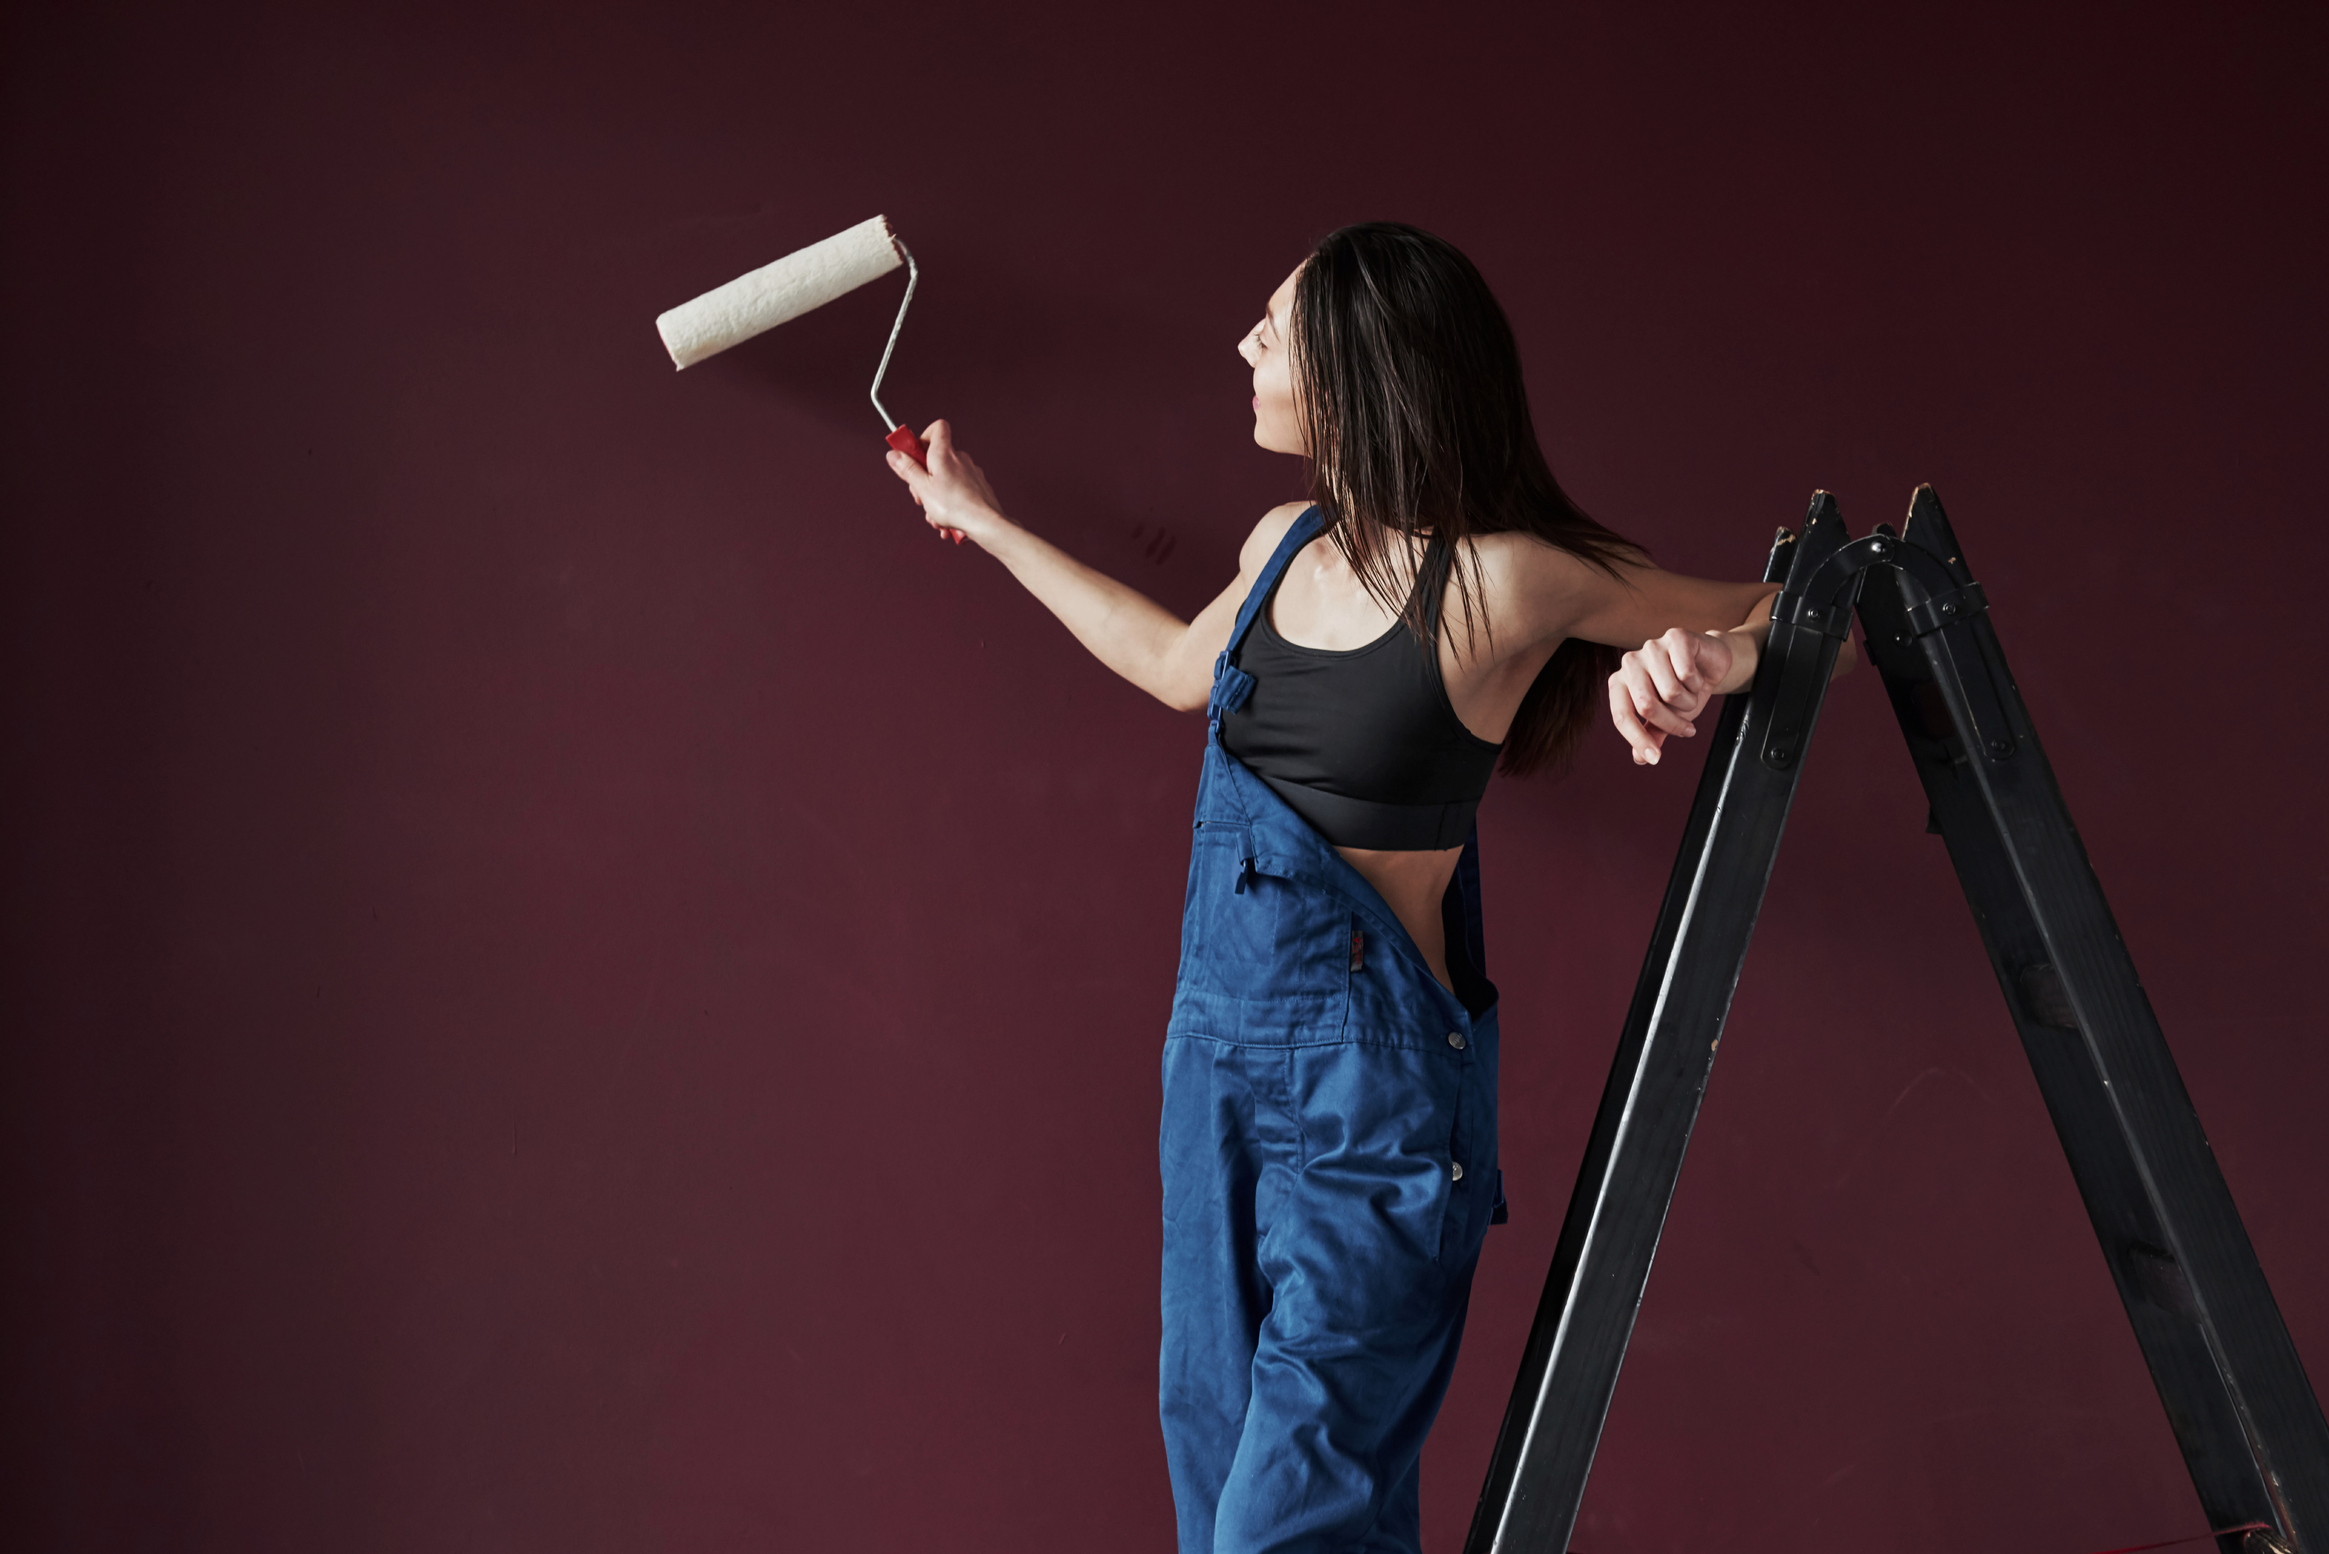
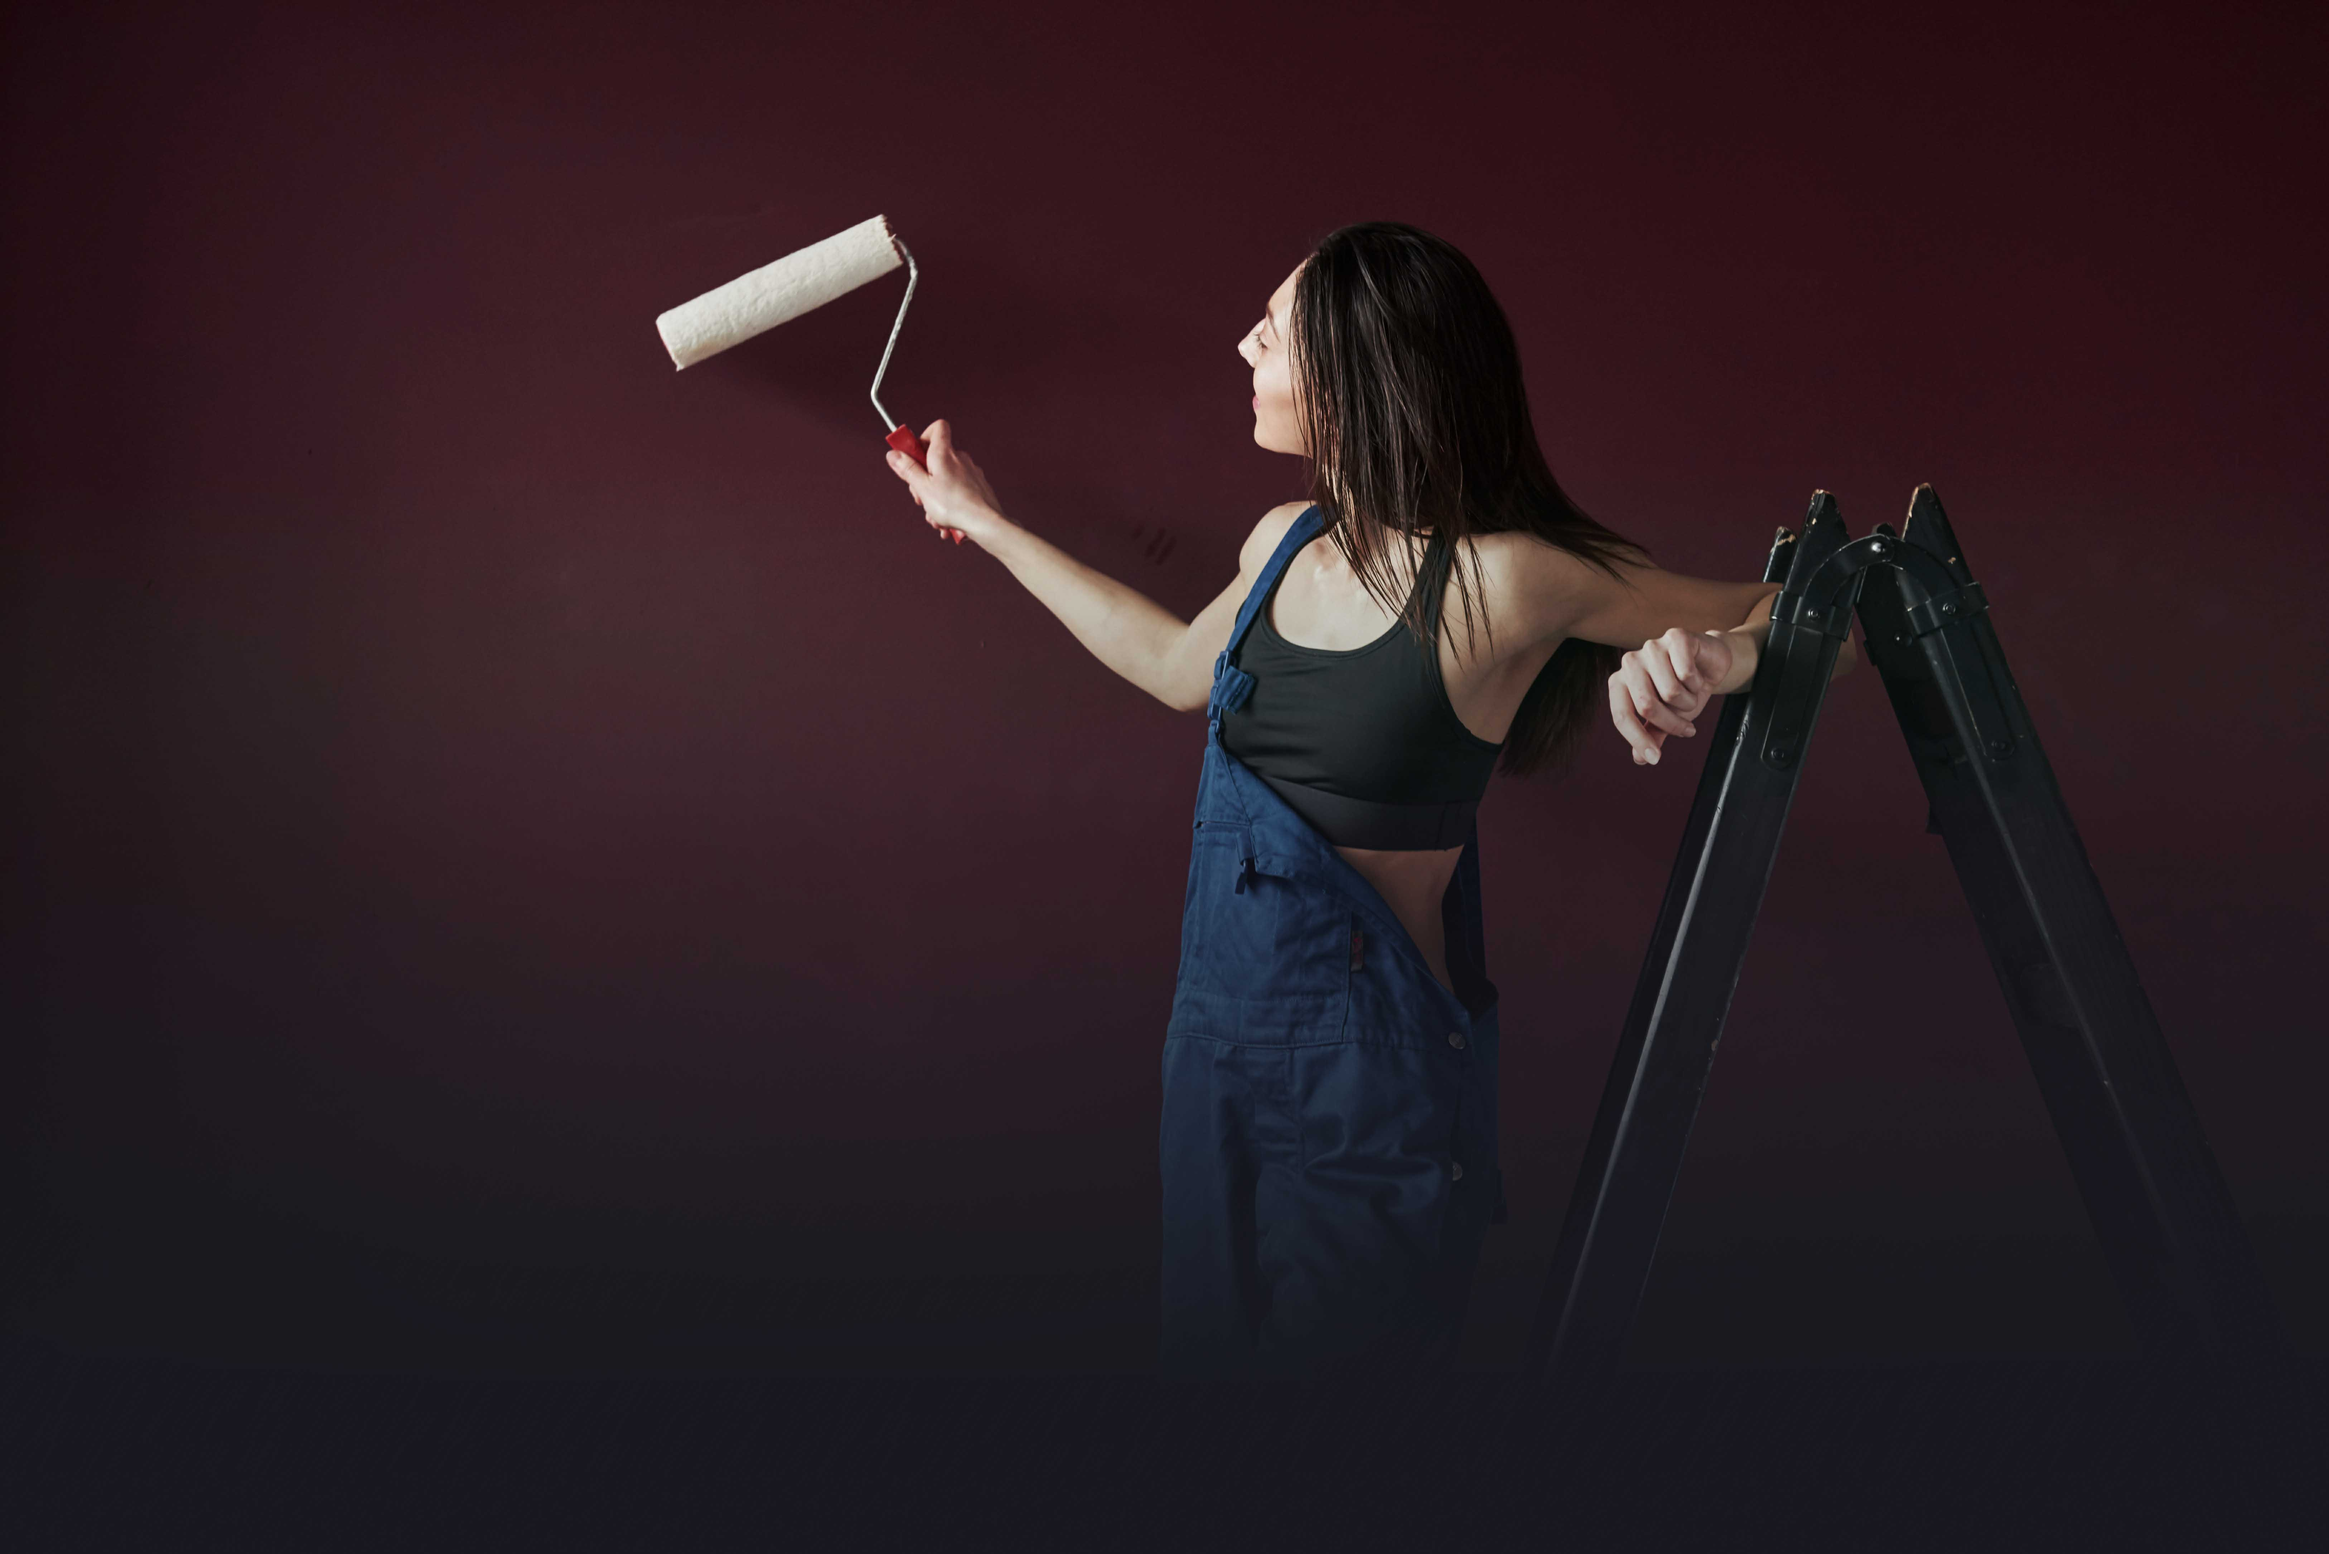
New Buttons and bg

diff --git a/lib/Views/Component/SecButton.dart b/lib/Views/Component/SecButton.dart
@@ -2,6 +2,8 @@ import 'package:flutter/material.dart';
 import 'package:flutter_screenutil/flutter_screenutil.dart';
 import 'package:multivender_ecommerce_app/Controllers/ThemeController.dart';
 import 'package:provider/provider.dart';
+import 'package:outline_gradient_button/outline_gradient_button.dart';
+
 
 import '../Constants.dart';
 
@@ -14,35 +16,31 @@ class SecButton extends StatelessWidget {
 
   @override
   Widget build(BuildContext context) {
-    var colorProvider = Provider.of<ThemeController>(context);
-    return OutlinedButton(
-      onPressed: () {},
-      style: ButtonStyle(
-        // backgroundColor: MaterialStateProperty.all<Color>(colorProvider.mainColor),
-        foregroundColor: MaterialStateProperty.all<Color>(colorProvider.myWhite),
-        overlayColor: MaterialStateProperty.resolveWith<Color>(
-          (Set<MaterialState> states) {
-            if (states.contains(MaterialState.hovered))
-              return Colors.white.withOpacity(0.1);
-            if (states.contains(MaterialState.focused) ||
-                states.contains(MaterialState.pressed))
-              return Colors.white.withOpacity(0.25);
-            return null;
-          },
-        ),
-// padding: MaterialStateProperty.all(EdgeInsets.symmetric(horizontal: 80.w,vertical: 15.h)),
-        minimumSize: MaterialStateProperty.all(Size(300.w, 60.h)),
-        shape: MaterialStateProperty.all(
-          RoundedRectangleBorder(
-            borderRadius: BorderRadius.all(Radius.circular(myRadius)),
+    var themeProvider = Provider.of<ThemeController>(context);
+    return OutlineGradientButton(
+      child: Container(
+        height: 66.h,
+        width: 320.w,
+        child: Center(
+          child: Text(
+            text,
+            style: themeProvider.buttonTextStyle,
           ),
         ),
-        side: MaterialStateProperty.all(BorderSide(color: colorProvider.myWhite, width: 1)),
       ),
-      child: Text(
-        text,
-        style: TextStyle(fontSize: 16.sp),
+      padding: EdgeInsets.zero,
+      gradient: LinearGradient(
+        colors: [
+          themeProvider.gradColor1,
+          themeProvider.gradColor2,
+          themeProvider.gradColor3,
+          themeProvider.gradColor4,
+        ],
+        begin: Alignment.topLeft,
+        end: Alignment.bottomRight,
       ),
+      strokeWidth: 1,
+      radius: Radius.circular(20),
     );
   }
 }

diff --git a/lib/Views/Component/MainButton.dart b/lib/Views/Component/MainButton.dart
@@ -14,33 +14,28 @@ class MainButton extends StatelessWidget {
 
   @override
   Widget build(BuildContext context) {
-    var colorProvider = Provider.of<ThemeController>(context);
-    return TextButton(
-      onPressed: () {},
-      style: ButtonStyle(
-        backgroundColor: MaterialStateProperty.all<Color>(colorProvider.mainColor),
-        foregroundColor: MaterialStateProperty.all<Color>(colorProvider.myWhite),
-        overlayColor: MaterialStateProperty.resolveWith<Color>(
-          (Set<MaterialState> states) {
-            if (states.contains(MaterialState.hovered))
-              return Colors.white.withOpacity(0.1);
-            if (states.contains(MaterialState.focused) ||
-                states.contains(MaterialState.pressed))
-              return Colors.white.withOpacity(0.25);
-            return null;
-          },
-        ),
-// padding: MaterialStateProperty.all(EdgeInsets.symmetric(horizontal: 80.w,vertical: 15.h)),
-        minimumSize: MaterialStateProperty.all(Size(300.w, 60.h)),
-        shape: MaterialStateProperty.all(
-          RoundedRectangleBorder(
-            borderRadius: BorderRadius.all(Radius.circular(myRadius)),
-          ),
-        ),
+    var themeProvider = Provider.of<ThemeController>(context);
+    return Container(
+      height: 66.h,
+      width: 320.w,
+      decoration: BoxDecoration(
+        borderRadius: BorderRadius.circular(20.r),
+          gradient: LinearGradient(
+            begin: Alignment.topRight,
+            end: Alignment.bottomLeft,
+            colors: [
+              themeProvider.gradColor1,
+              themeProvider.gradColor2,
+              themeProvider.gradColor3,
+              themeProvider.gradColor4,
+            ],
+          )
       ),
-      child: Text(
-        text,
-        style: TextStyle(fontSize: 16.sp),
+      child: Center(
+        child: Text(
+          text,
+          style: themeProvider.buttonTextStyle,
+        ),
       ),
     );
   }

diff --git a/lib/Views/Screens/WelcomePage.dart b/lib/Views/Screens/WelcomePage.dart
@@ -15,13 +15,11 @@ class _WelcomePageState extends State<WelcomePage> {
   Widget build(BuildContext context) {
     var colorProvider = Provider.of<ThemeController>(context);
     return Scaffold(
-      backgroundColor: colorProvider.bgColor,
       body: Container(
-        padding: EdgeInsets.symmetric(vertical: 40.h),
         width: 375.w,
         decoration: BoxDecoration(
           image: DecorationImage(
-            image: AssetImage("images/welcomeBg.jpg"),
+            image: AssetImage("images/bg.png"),
             fit: BoxFit.cover,
           ),
         ),
@@ -29,28 +27,10 @@ class _WelcomePageState extends State<WelcomePage> {
           mainAxisAlignment: MainAxisAlignment.end,
           crossAxisAlignment: CrossAxisAlignment.center,
           children: [
-            Text(
-              "Palette",
-              style: TextStyle(
-                fontSize: 32.sp,
-                color: colorProvider.myWhite,
-                fontWeight: FontWeight.w700
-              ),
-            ),
-            SizedBox(height: 10.h,),
-            Text(
-              "Where you can find all the ART\nYou've been looking for!",
-              style: TextStyle(
-                  fontSize: 14.sp,
-                  color: colorProvider.myWhite,
-                  fontWeight: FontWeight.w500
-              ),
-              textAlign: TextAlign.center,
-            ),
-            SizedBox(height: 20.h,),
             MainButton(text: "Get Started",),
             SizedBox(height: 10.h,),
             SecButton(text: "Login"),
+            SizedBox(height: 25.h,),
           ],
         ),
       ),

diff --git a/lib/Controllers/ThemeController.dart b/lib/Controllers/ThemeController.dart
@@ -1,9 +1,20 @@
 import 'package:flutter/material.dart';
+import 'package:flutter_screenutil/flutter_screenutil.dart';
 
 class ThemeController with ChangeNotifier {
-  Color mainColor = Color(0xff5568FE);
-  Color secColor = Color(0xff60646C);
-  Color fieldSColor = Color(0xff252A34);
-  Color bgColor = Color(0xff181920);
+
+  Color gradColor1 = Color(0xff2495D4);
+  Color gradColor2 = Color(0xffAF28D1);
+  Color gradColor3 = Color(0xffD36A08);
+  Color gradColor4 = Color(0xffFFD600);
+
   Color myWhite = Color(0xffFFFFFF);
+
+  TextStyle buttonTextStyle = TextStyle(
+    fontSize: 18.sp,
+    fontFamily: "Roboto",
+    color: Colors.white,
+
+  );
 }
+

diff --git a/lib/Models/OwnerModel.dart b/lib/Models/OwnerModel.dart
@@ -1,4 +1,3 @@
-import 'package:multivender_ecommerce_app/Models/StoreModel.dart';
 import 'package:firebase_auth/firebase_auth.dart';
 
 class OwnerModel {
@@ -12,7 +11,6 @@ class OwnerModel {
   });
 
   String name;
-  StoreModel store;
   double lon;
   double lat;
   String address;

diff --git a/lib/Models/StatusModel.dart b/lib/Models/StatusModel.dart
@@ -1,4 +1,3 @@
-
 class Status {
   String accepted = "Accepted";
   String refused = "Refused";
